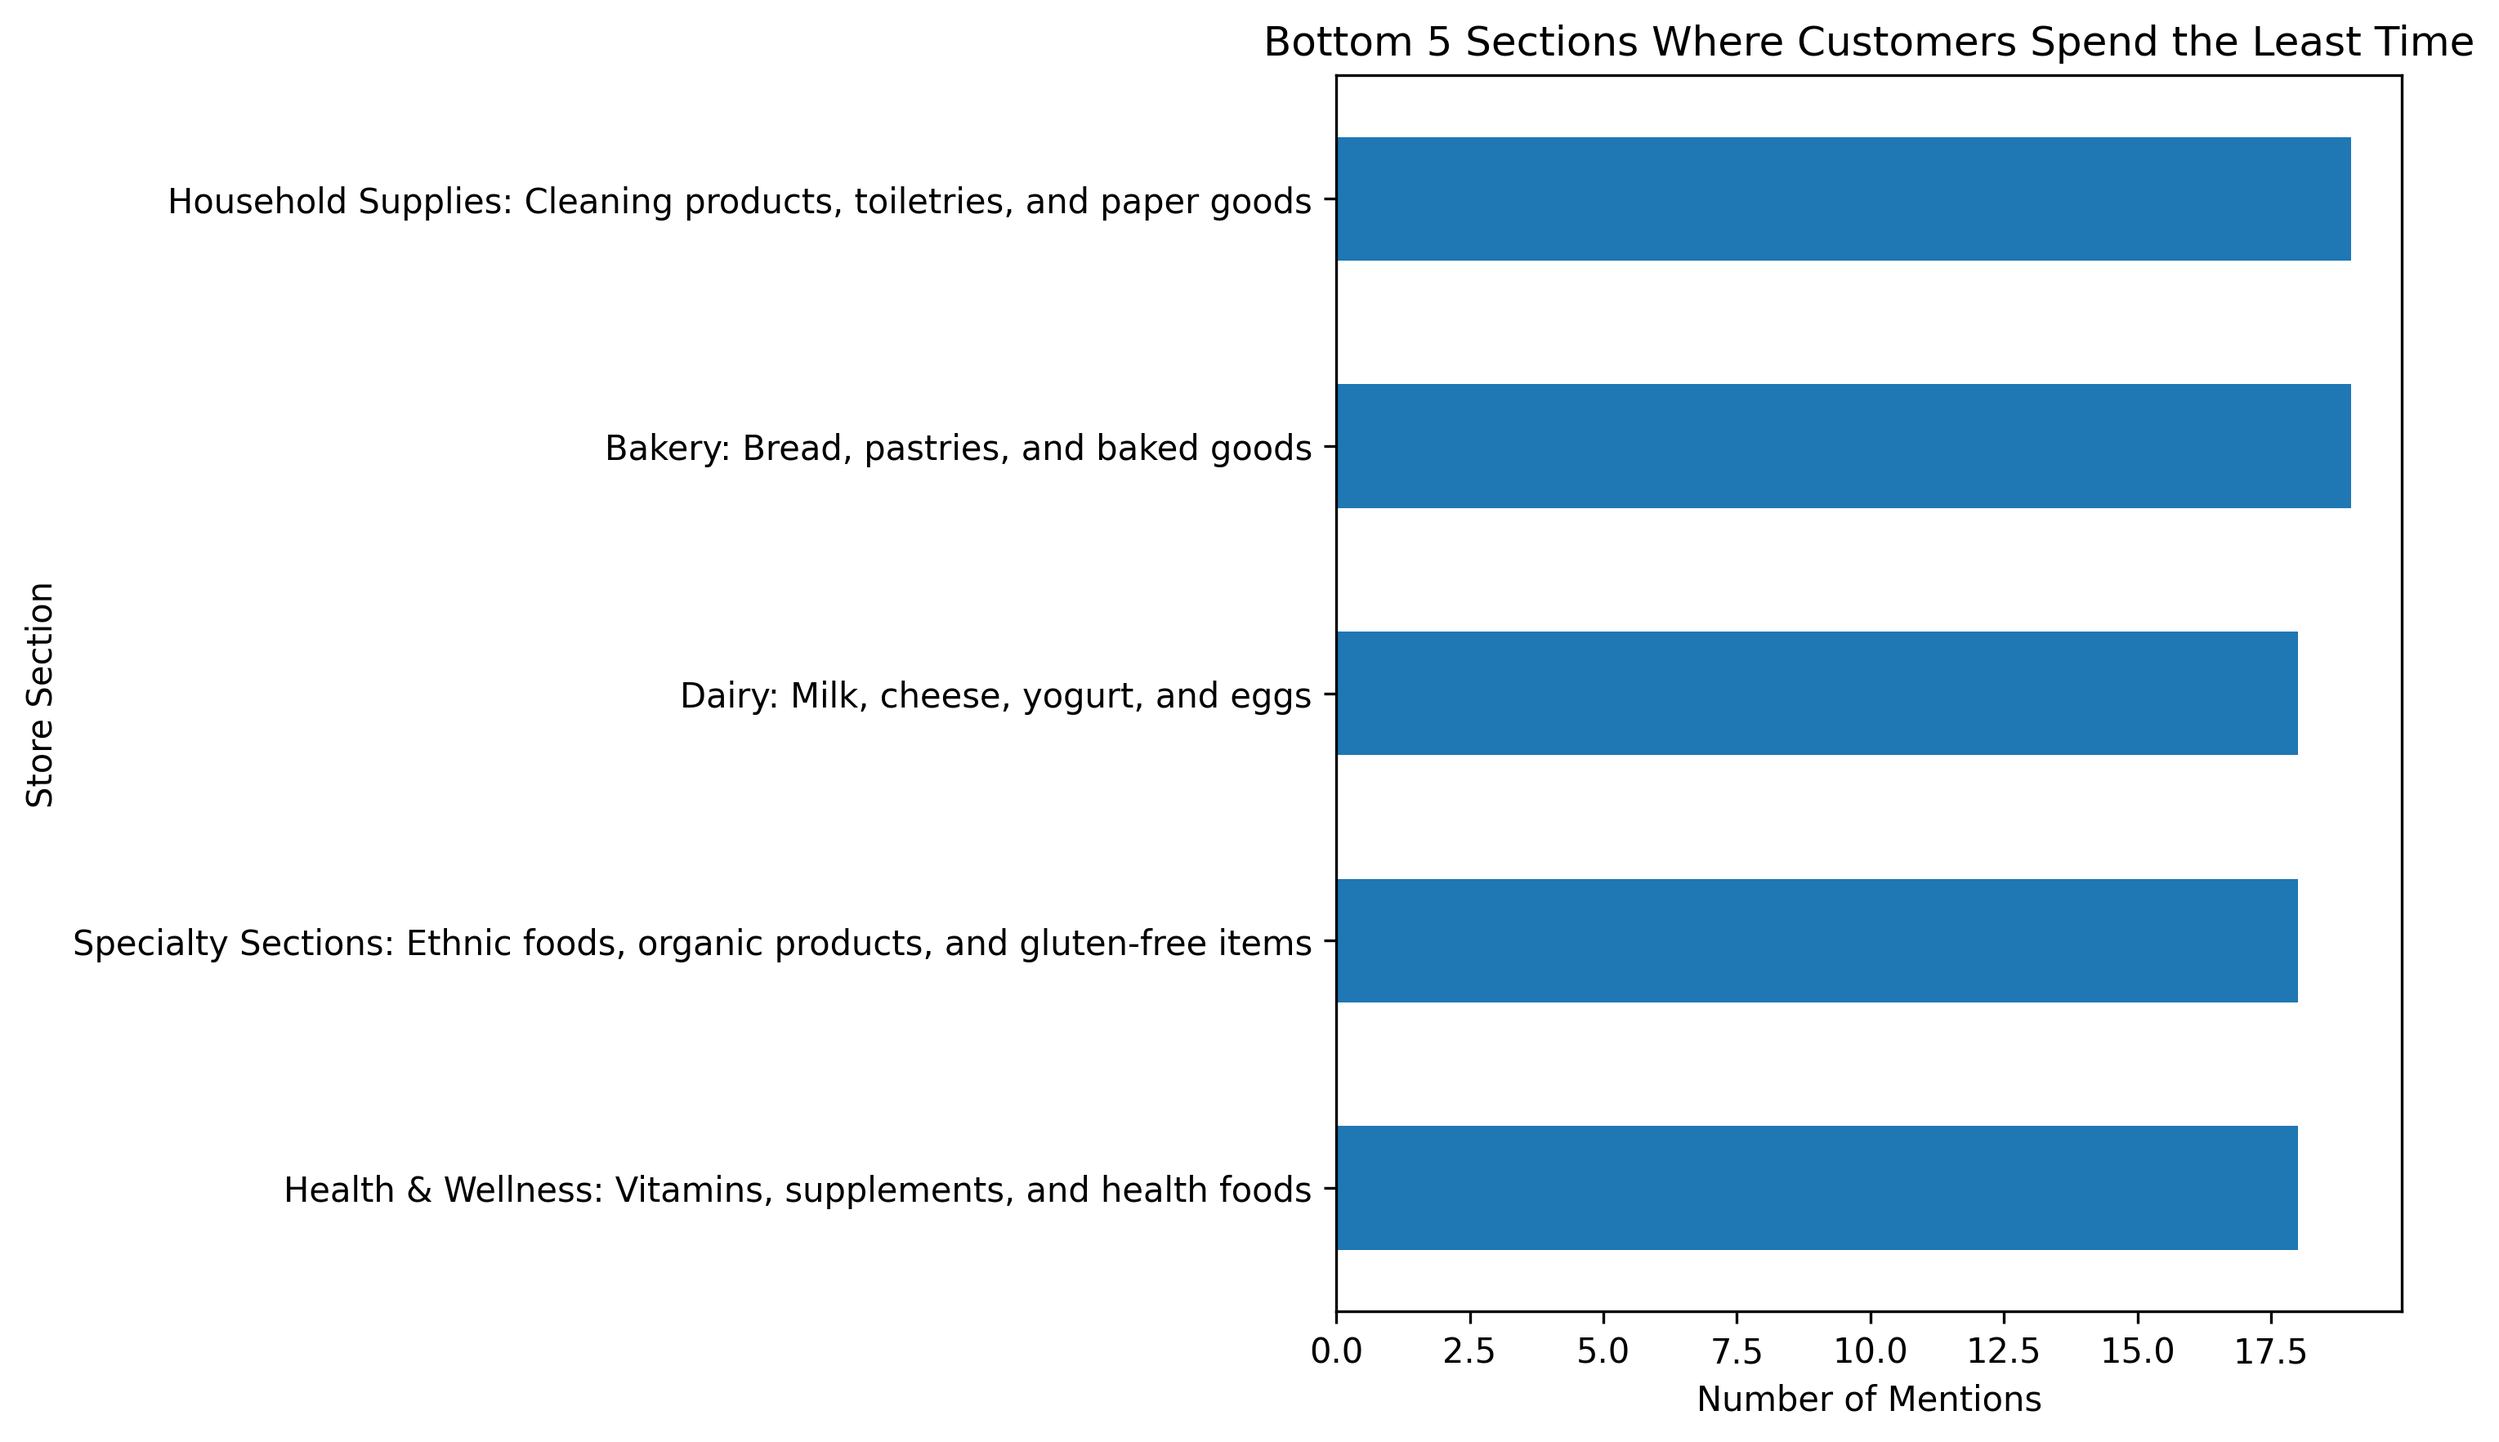
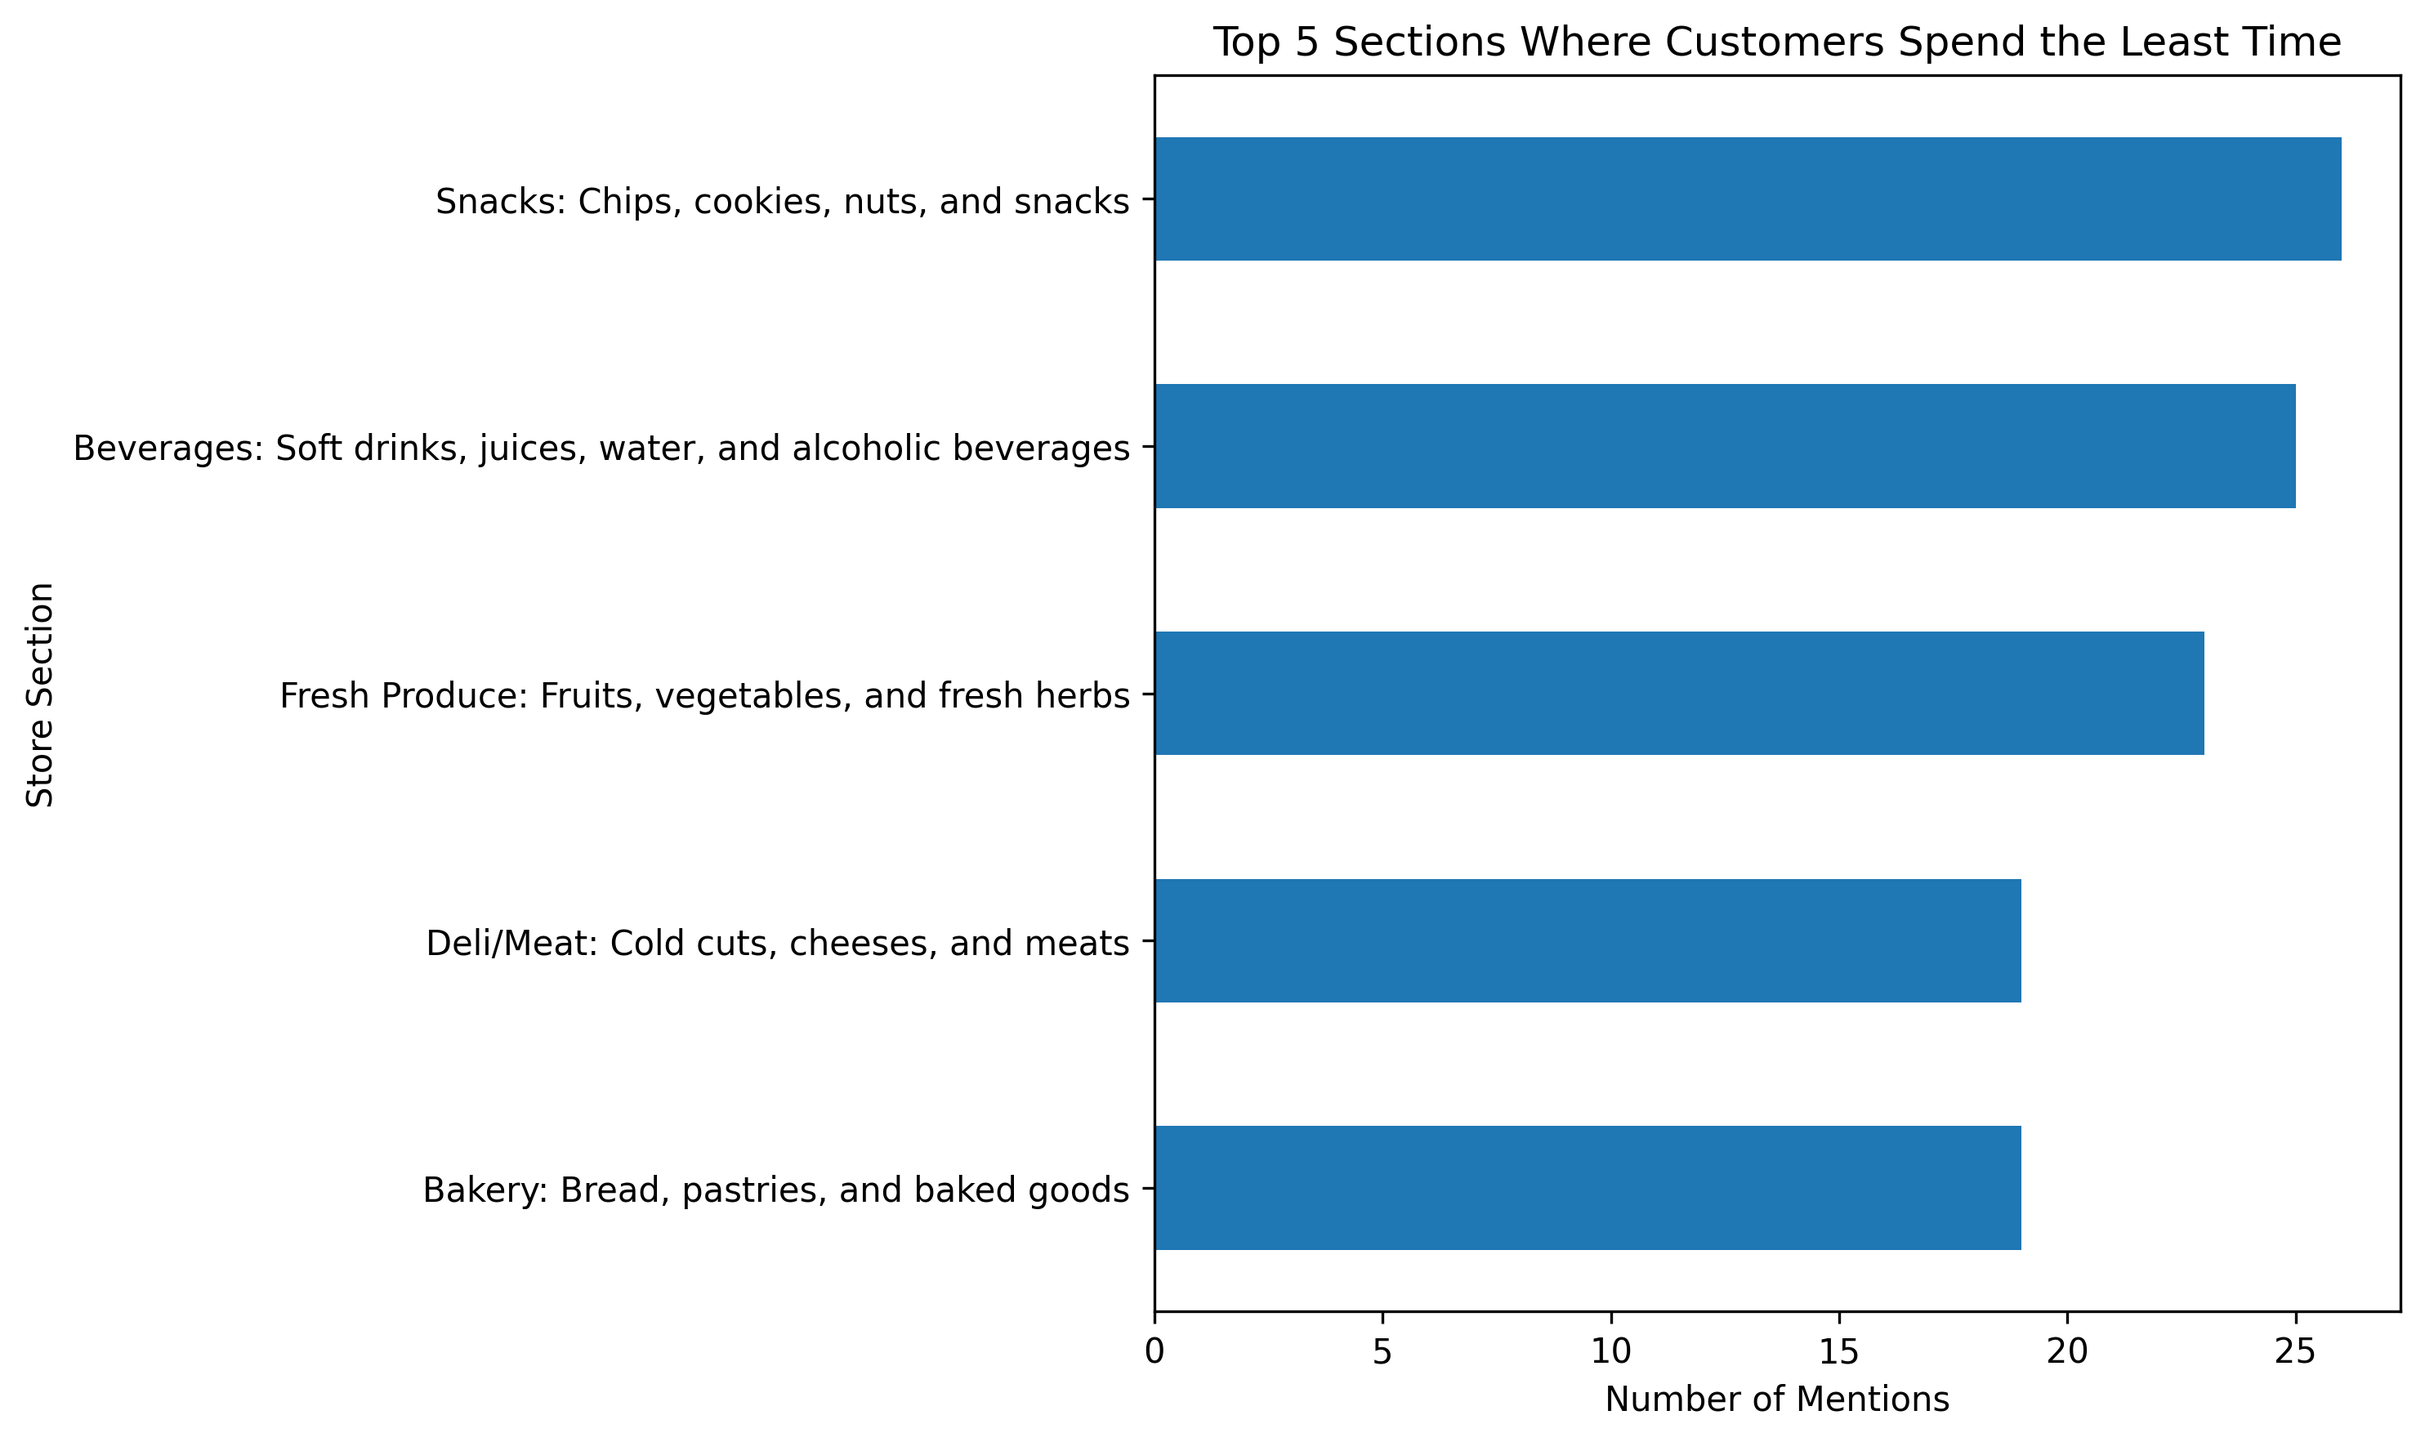
reverted least time spent logic

diff --git a/src/descriptive_analysis.py b/src/descriptive_analysis.py
@@ -417,20 +417,15 @@ def analysis_12_most_time_spent():
 def analysis_13_least_time_spent():
     """Generates the chart for sections where customers spend the least time."""
     res = multiselect_counts(df[COL_LEAST_TIME])
+    # Top 5 lowest-count categories only
+    res_bottom = res.sort_values(ascending=False).head(5)
 
-    # Exclude categories already used in the top 5 most-time chart
-    most_time_top5 = multiselect_counts(df[COL_MOST_TIME]).sort_values(ascending=False).head(5)
-    overlap_categories = set(most_time_top5.index)
-
-    # Bottom 5 lowest-count categories, excluding overlaps
-    res_bottom = res[~res.index.isin(overlap_categories)].sort_values(ascending=True).head(5)
-
-    print("\nLEAST TIME SPENT SECTION (BOTTOM 5, NO OVERLAP)")
+    print("\nLEAST TIME SPENT SECTION (TOP 5)")
     print(res_bottom)
 
     save_bar(
         res_bottom,
-        "Bottom 5 Sections Where Customers Spend the Least Time",
+        "Top 5 Sections Where Customers Spend the Least Time",
         "Number of Mentions",
         "Store Section",
         "13_least_time_spent_section.png",
